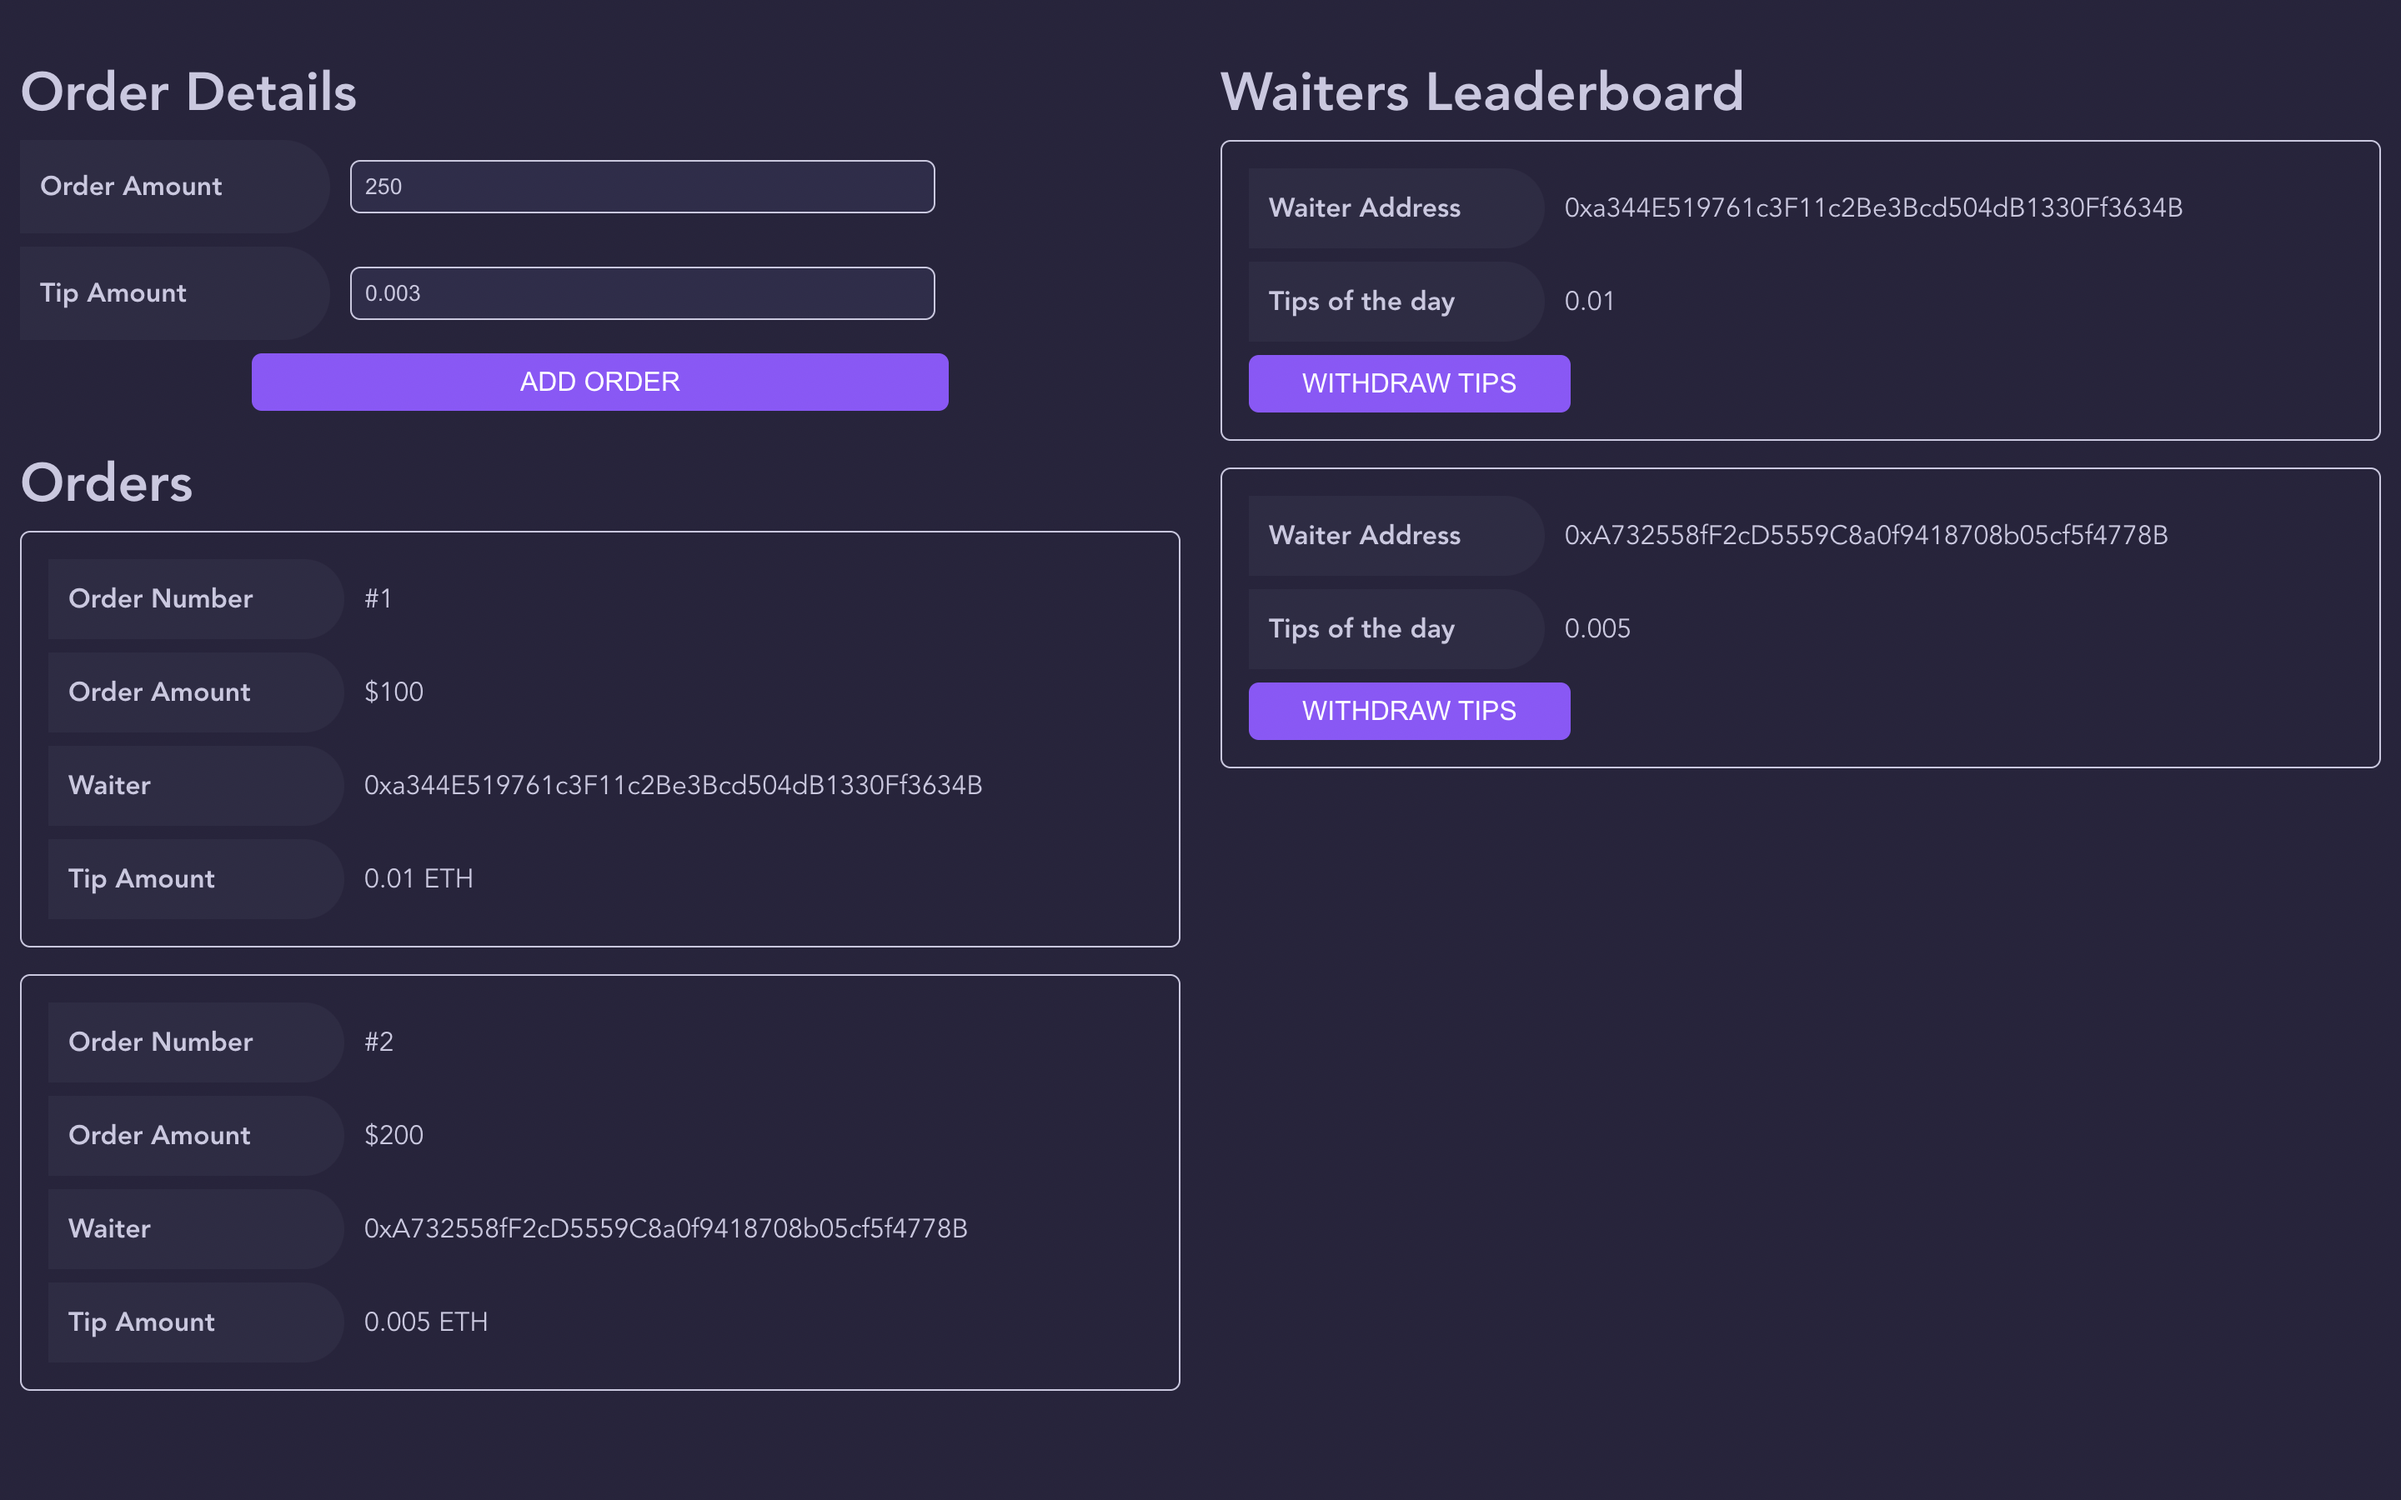
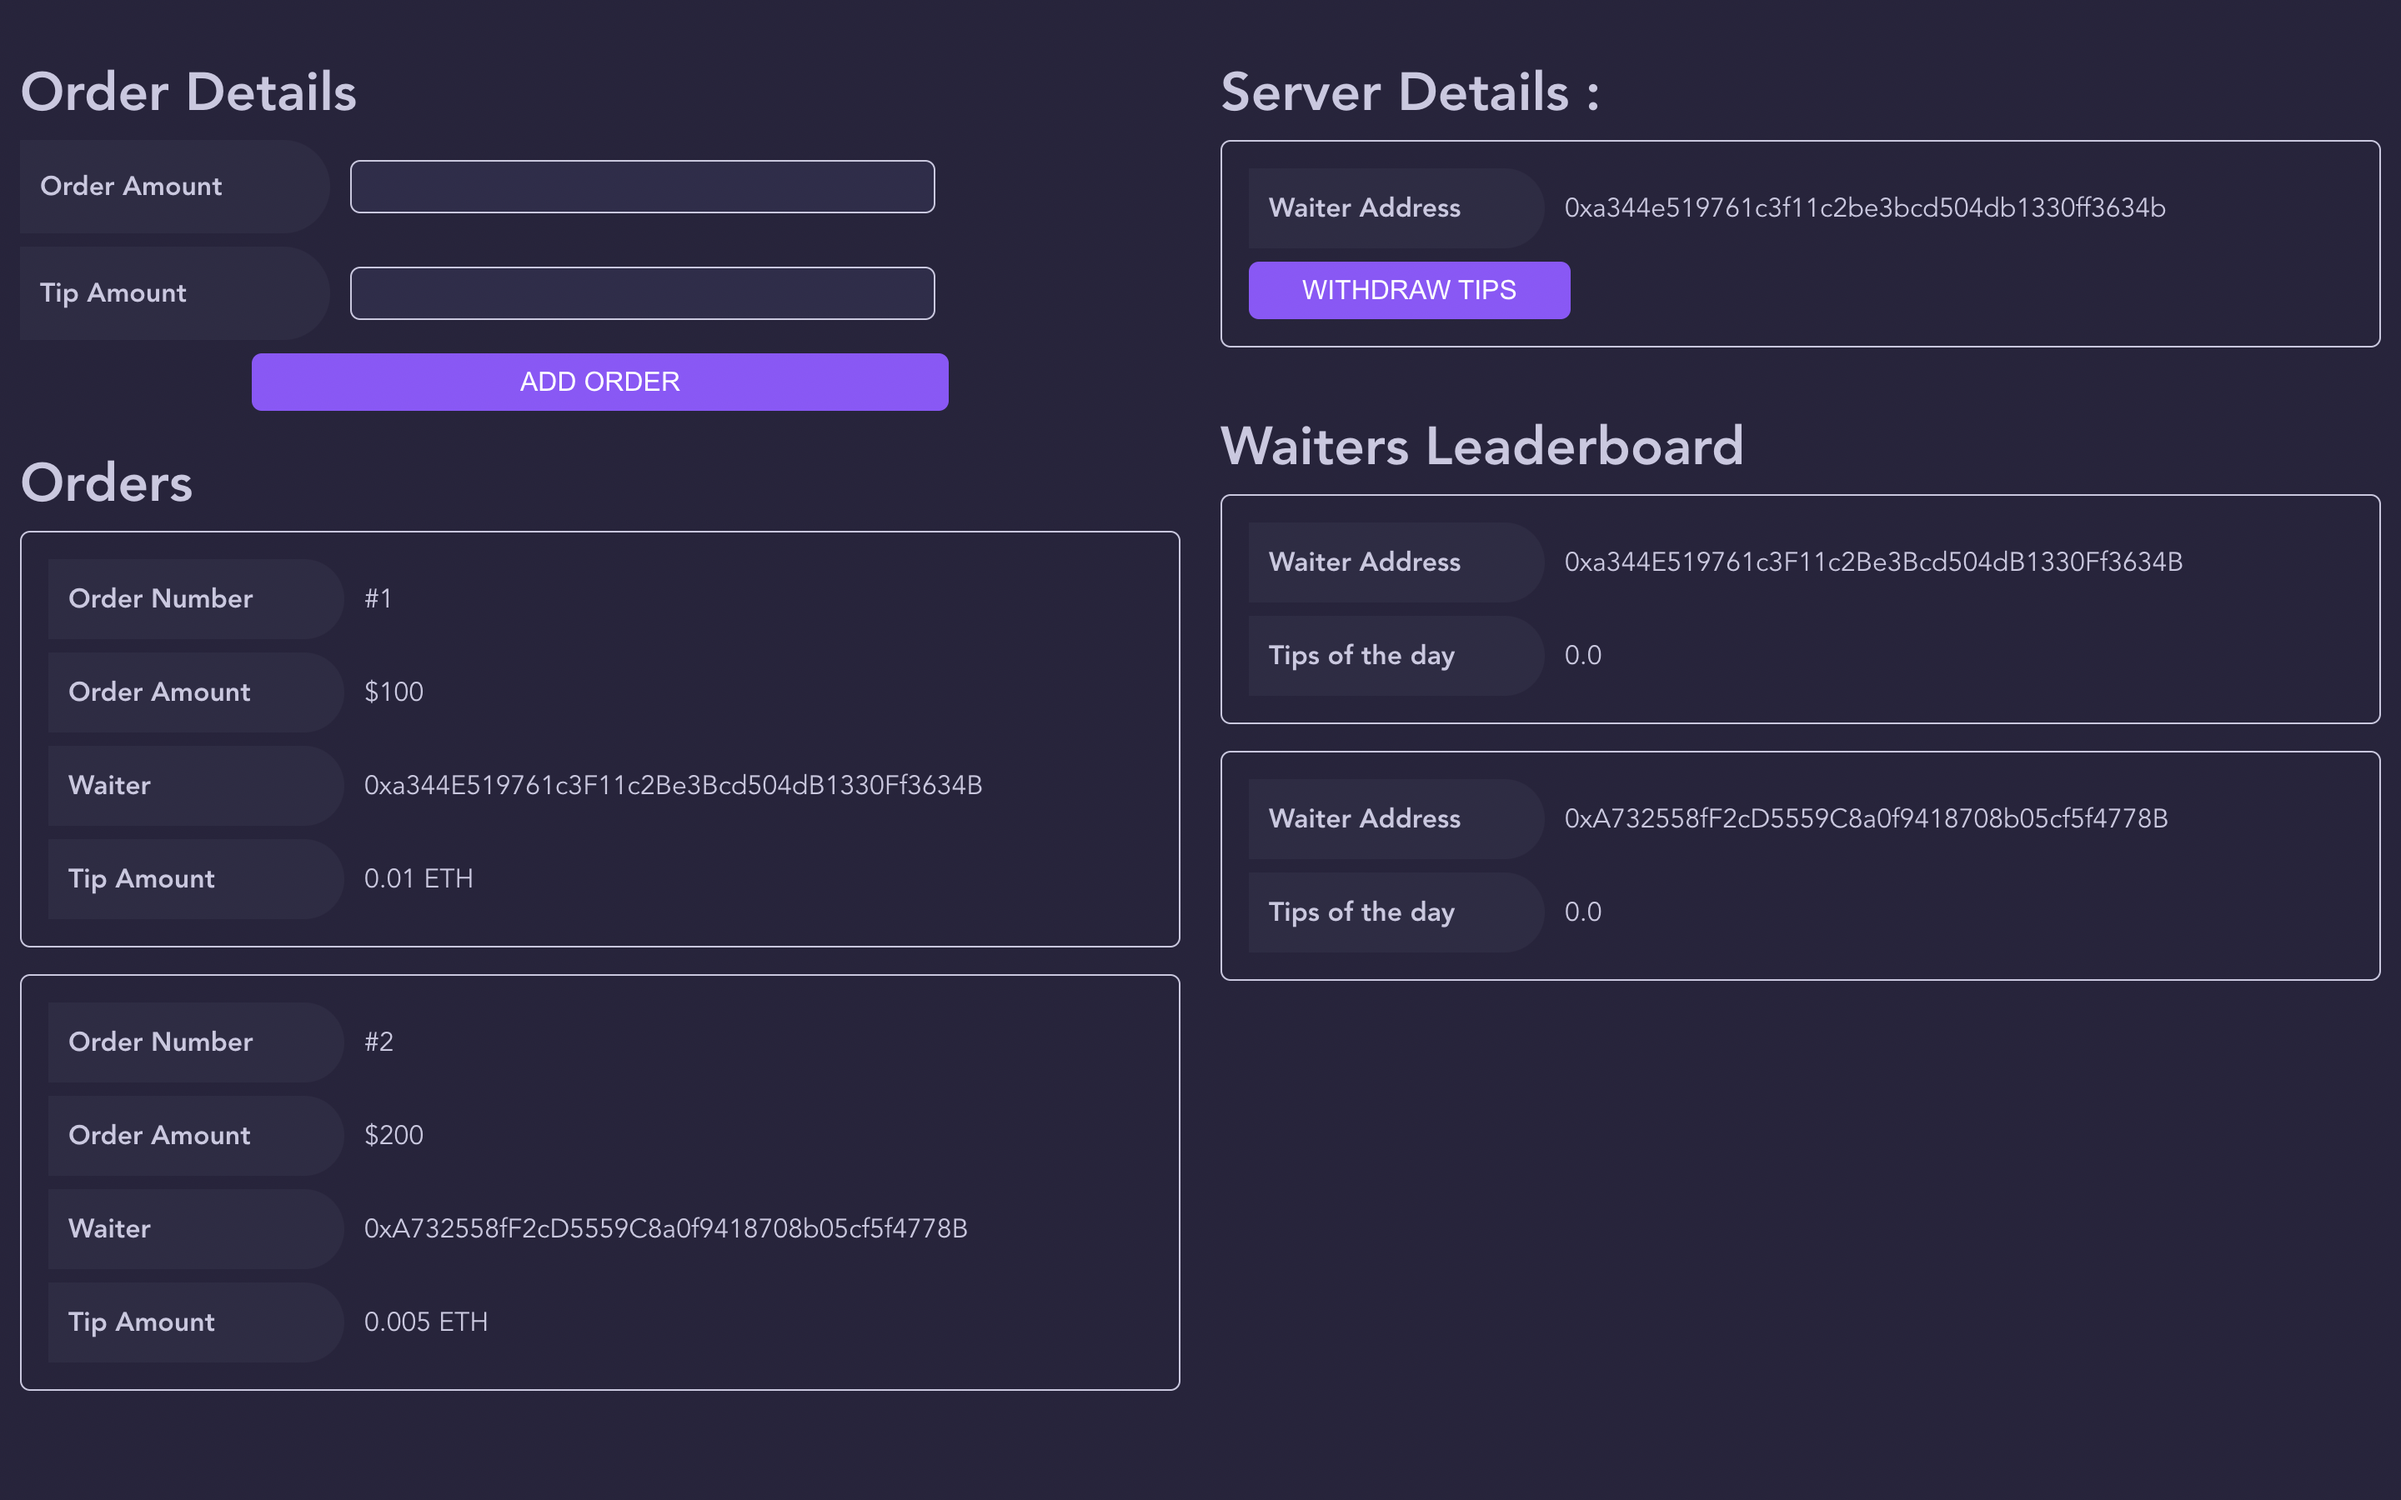
Screenshot and server detais added

diff --git a/client/src/components/Home.jsx b/client/src/components/Home.jsx
@@ -15,6 +15,7 @@ export default function Home() {
         leaderboard,
         withdrawTips,
         isLoading,
+        currentAccount,
     } = useContext(TipMeContext)
 
     useEffect(() => {
@@ -105,6 +106,16 @@ export default function Home() {
                         </div>
                     </div>
                     <div className="leaderboard">
+                        <p className="title">Server Details : </p>
+                        <div className="eachData">
+                            <div className="transactionData">
+                                <strong>Waiter Address </strong>
+                                <span>{currentAccount}</span>
+                            </div>
+                            <button className="submitButton" onClick={() => withdrawTips()}>
+                                Withdraw tips
+                            </button>
+                        </div>
                         <p className="title">Waiters Leaderboard</p>
                         {leaderboard && leaderboard.length > 0 ? (
                             <React.Fragment>
@@ -114,18 +125,18 @@ export default function Home() {
                                         <div key={i} className="eachData">
                                             <div className="transactionData">
                                                 <strong>Waiter Address </strong>
-                                                <span>{waiterAddress}</span>
+                                                <span>
+                                                    {waiterAddress === currentAccount ? (
+                                                        <strong>waiterAddress</strong>
+                                                    ) : (
+                                                        waiterAddress
+                                                    )}
+                                                </span>
                                             </div>
                                             <div className="transactionData">
                                                 <strong>Tips of the day </strong>
                                                 <span>{tip}</span>
                                             </div>
-                                            <button
-                                                className="submitButton"
-                                                onClick={() => withdrawTips()}
-                                            >
-                                                Withdraw tips
-                                            </button>
                                         </div>
                                     )
                                 })}
